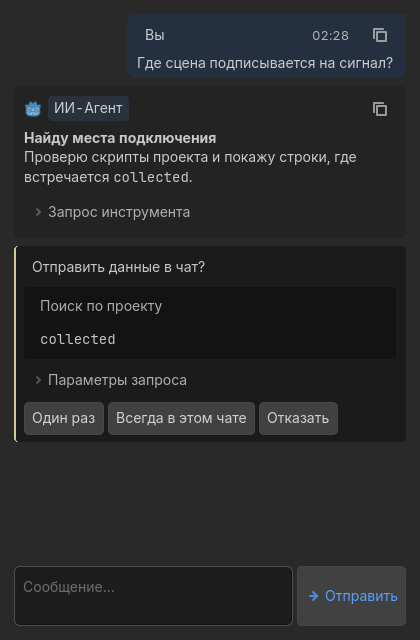
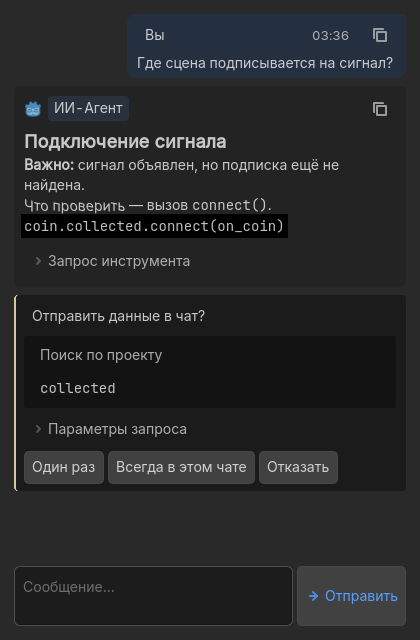
feat(editor): render emphasis, headings and code in the chat theme

diff --git a/tests/py/live/test_dock_presentation.py b/tests/py/live/test_dock_presentation.py
@@ -72,7 +72,7 @@ func measure() -> void:
     add_child(_view)
     _view.setup(conversation)
     _view.add_user_message("Где сцена подписывается на сигнал?")
-    var text := '[b]Найду места подключения[/b]\\nПроверю скрипты проекта и покажу строки, где встречается [code]collected[/code].'
+    var text := '[b][font_size=20]Подключение сигнала[/font_size][/b]\\n[b]Важно:[/b] сигнал объявлен, но подписка ещё не найдена.\\n[i]Что проверить[/i] — вызов [code]connect()[/code].\\n[bgcolor=#2b2b2b][code]coin.collected.connect(on_coin)[/code][/bgcolor]'
     var args := '{"action":"search_project","query":"collected","only_exts":[lb]"gd"[rb]}'
     _view.add_agent_message(text + "\\n" + args)
     var card = _view._chat_container.get_child(-1)
@@ -88,6 +88,14 @@ func measure() -> void:
     toggle.button_pressed = false
     ok = ok and card._copy_text().ends_with('"only_exts":["gd"]}') and card.get_text().ends_with(args)
     ok = ok and not card.rollback_btn.visible and not card.copy_btn.disabled
+    var rich: RichTextLabel = card.content
+    var normal := rich.get_theme_font("normal_font")
+    var bold := rich.get_theme_font("bold_font")
+    var italic := rich.get_theme_font("italics_font")
+    ok = ok and bold != normal and italic != normal and italic != bold
+    ok = ok and bold.get_string_size("Подключение сигнала").x > normal.get_string_size("Подключение сигнала").x
+    ok = ok and "[bgcolor=#2b2b2b]" not in rich.text and "coin.collected.connect(on_coin)" in rich.get_parsed_text()
+    ok = ok and rich.has_theme_font_size_override("mono_font_size") and card.get_text().begins_with(text)
     load(NATIVE + "agent_read_consent.gd").offer(self, {"chat_id": _current_chat_id,
         "action": {"action": "search_project", "query": "collected", "only_exts": ["gd"]}})
     var composer := HBoxContainer.new()

diff --git a/tests/py/panel_tf/source_inputs.py b/tests/py/panel_tf/source_inputs.py
@@ -223,11 +223,21 @@ D126_CHAT = {
 }
 
 
+D127_TYPOGRAPHY = {
+    'editor/native/AgentMessageCard.gd': (*D126_CHAT['editor/native/AgentMessageCard.gd'][2:],
[1 lines of base64/hex data omitted]
+    'editor/native/agent_theme.gd': (*D126_CHAT['editor/native/agent_theme.gd'][2:],
[1 lines of base64/hex data omitted]
+}
+
+
 def revised_chat_fact(fact, current):
-    for versions in (D123_REVISIONS, D124_VISUAL):
+    later = fact['path'] in D127_TYPOGRAPHY
+    chain = (D123_REVISIONS, D124_VISUAL, D126_CHAT) if later else (D123_REVISIONS, D124_VISUAL)
+    for versions in chain:
         if fact['path'] in versions:
             size, sha, after_size, after_sha = versions[fact['path']]
             if (fact['bytes'], fact['sha256']) != (size, sha):
                 raise ValueError('Unexpected prior chat input: ' + fact['path'])
             fact = dict(fact, bytes=after_size, sha256=after_sha)
-    return revised_bug_register_fact(fact, current, D126_CHAT)
+    return revised_bug_register_fact(fact, current, D127_TYPOGRAPHY if later else D126_CHAT)

diff --git a/docs/PROGRESS.md b/docs/PROGRESS.md
@@ -2,6 +2,8 @@
 
 ## Текущий статус (2026-11-27)
 
+- D127 установлен. [Панель AI Studio](porting/assistant.write.md) записывает версию доставленных инструкций и меняет только нужный диапазон в черновике. У библиотекаря исправлена ошибочная отметка `error` в журнале. [Оформление ответов](../.github/dock-preview/README.md) проверено в Godot, сохранение форматированного текста — перезапуском установленного EXE. Следующее действие: переоткрыть проект, отредактировать середину черновика в новом чате AI Studio и проверить отметку в списке после первого ответа.
+
 - D126 установлен: [поиск](porting/project_text.search.md) показывает само совпадение, когда длинный контекст прежде занимал весь фрагмент. Переход по `next_offset` проверен на установленном сервере. В [переписке](../.github/dock-preview/README.md) параметры запроса инструмента раскрываются отдельно от ответа и от разрешения на чтение. Для проверки в рабочем доке — переоткрыть Godot и раскрыть запрос в сохранённом чате.
 
 - D125 установлен: исправлены повторы путей и подсказка для каталога, обновлена карточка разрешения. Воспроизведено лишнее ожидание при форматированном DONE. Установленный EXE сохранил [локальные измерения](panel-diagnostics.md) и восстановил чат после перезапуска на отдельном профиле. Следующее действие — сопоставить время следующей задержки в живом DeepSeek с `visible_done_ms` и `total_ms`.

diff --git a/.github/dock-preview/README.md b/.github/dock-preview/README.md
@@ -2,7 +2,7 @@
 
 «Мастерская проекта»: на главной — схема узлов, сохранённые чаты и два входа в новый диалог. В переписке вопрос помещается в компактную плашку, а ответ занимает всю доступную ширину. Ниже — главная при 250 px и пример запроса чтения при 420 px, отрисованные в Godot 4.6.3 на тестовом диалоге.
 
-В примере агент ищет сигнал `collected`. Пояснение можно читать сразу; «Запрос инструмента» раскрывает JSON внутри реплики. Копирование сохраняет и эти параметры. Разрешение на поиск даётся ниже, в отдельной карточке с операцией, целью и кнопками выбора.
+В примере агент проверяет подключение сигнала `collected`: заголовок выделяет тему, жирное «Важно» — вывод, курсив — следующий шаг. Строка кода набрана моноширинным шрифтом на фоне из текущей темы. «Запрос инструмента» раскрывает JSON внутри реплики, а разрешение на поиск даётся отдельно, в следующей карточке.
 
 | Тёмная тема | Светлая тема |
 | --- | --- |

diff --git a/docs/panel-diagnostics.md b/docs/panel-diagnostics.md
@@ -15,3 +15,5 @@
 Для ответа с замеченным маркером `total_ms − visible_done_ms` показывает время от наблюдения маркера до завершения диспетчера. Отрисовка Godot и момент, когда пользователь увидел ответ на сайте, сюда не входят. `null` означает «не наблюдалось»: у API нет этих браузерных событий, а окно наблюдения потока ограничено. Это не доказательство, что модель пропустила маркер.
 
 Журнал хранится локально, отдельно от сохранённых чатов. Тексты, содержимое файлов, их пути, адреса, идентификаторы чатов, ключи и аргументы действий в него не попадают.
+
+При разборе `ask_librarian` смотри `read_tool: "ask"`. До D127 успешный текстовый ответ мог получить метку `error`; для такого старого хода сверь результат с сохранённым диалогом. Начиная с D127 непустой текст отмечается `ok`, пустой — `empty`. Старые записи не переписываются.

diff --git a/docs/porting/TF5-panel-ui.md b/docs/porting/TF5-panel-ui.md
@@ -1,5 +1,7 @@
 # T-F.5 — нативный вход панели (2026-11-22)
 
+D127: заголовки масштабируются от обычного текста; жирный, курсив и код получают отдельные начертания; фон блока кода берётся из палитры редактора. Проверено в Godot 4.6.3 при 250/420 px в обеих темах. В отдельном профиле установленный сервер вернул форматированный API-ответ после полного перезапуска. [Снимки](../../.github/dock-preview/README.md).
+
 D125: в карточке разрешения сначала видны операция и цель, точные аргументы
 доступны до выбора через «Параметры запроса». Проверено в Godot: раскрытие не
 отправляет запрос, решения и отзыв работают; 250/420 px в обеих темах.
